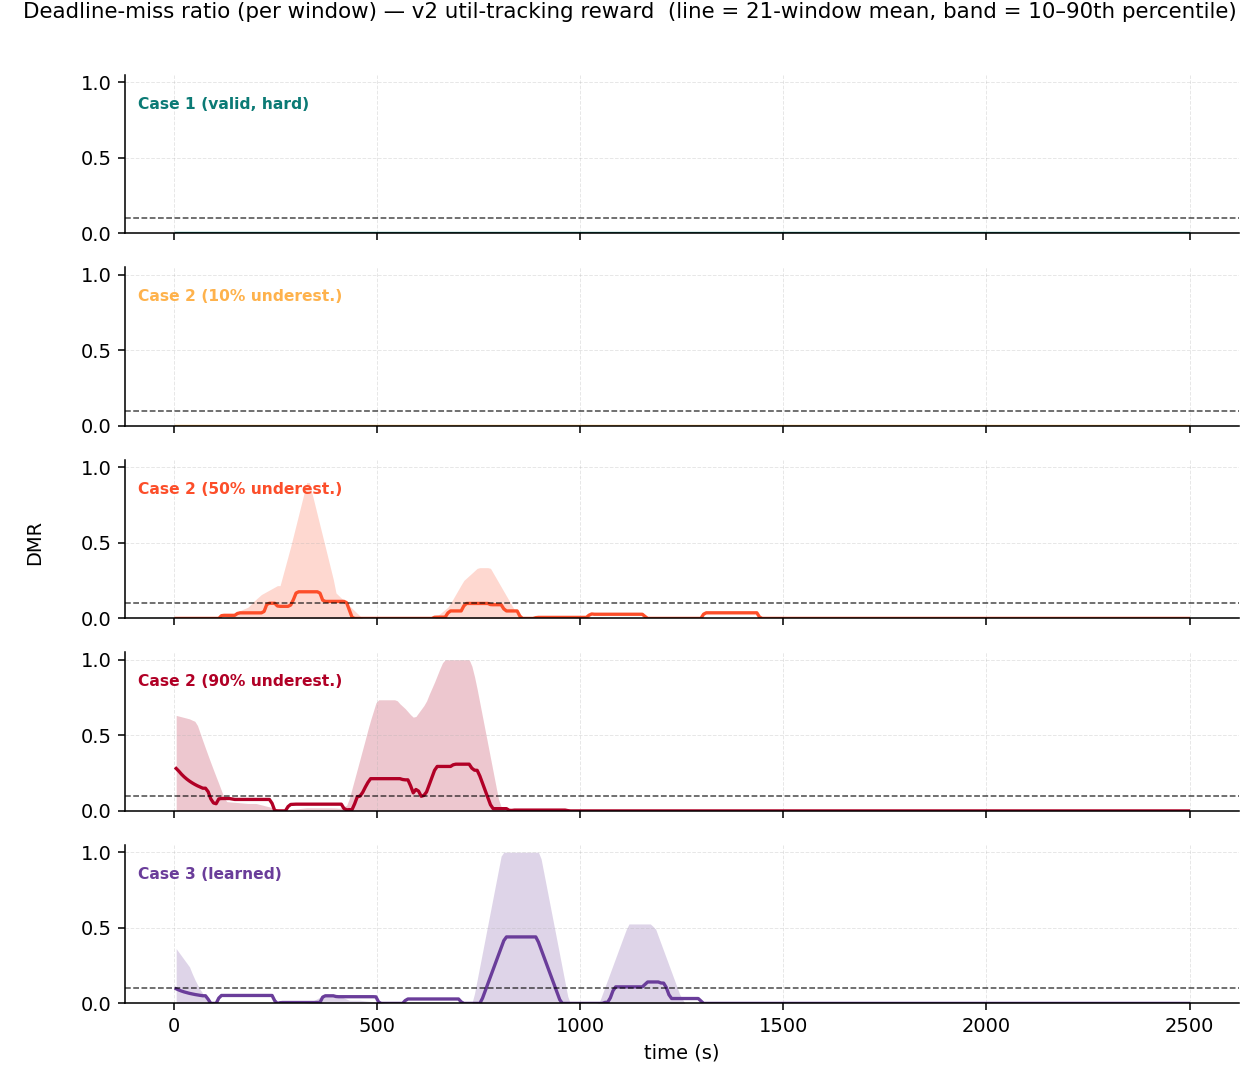
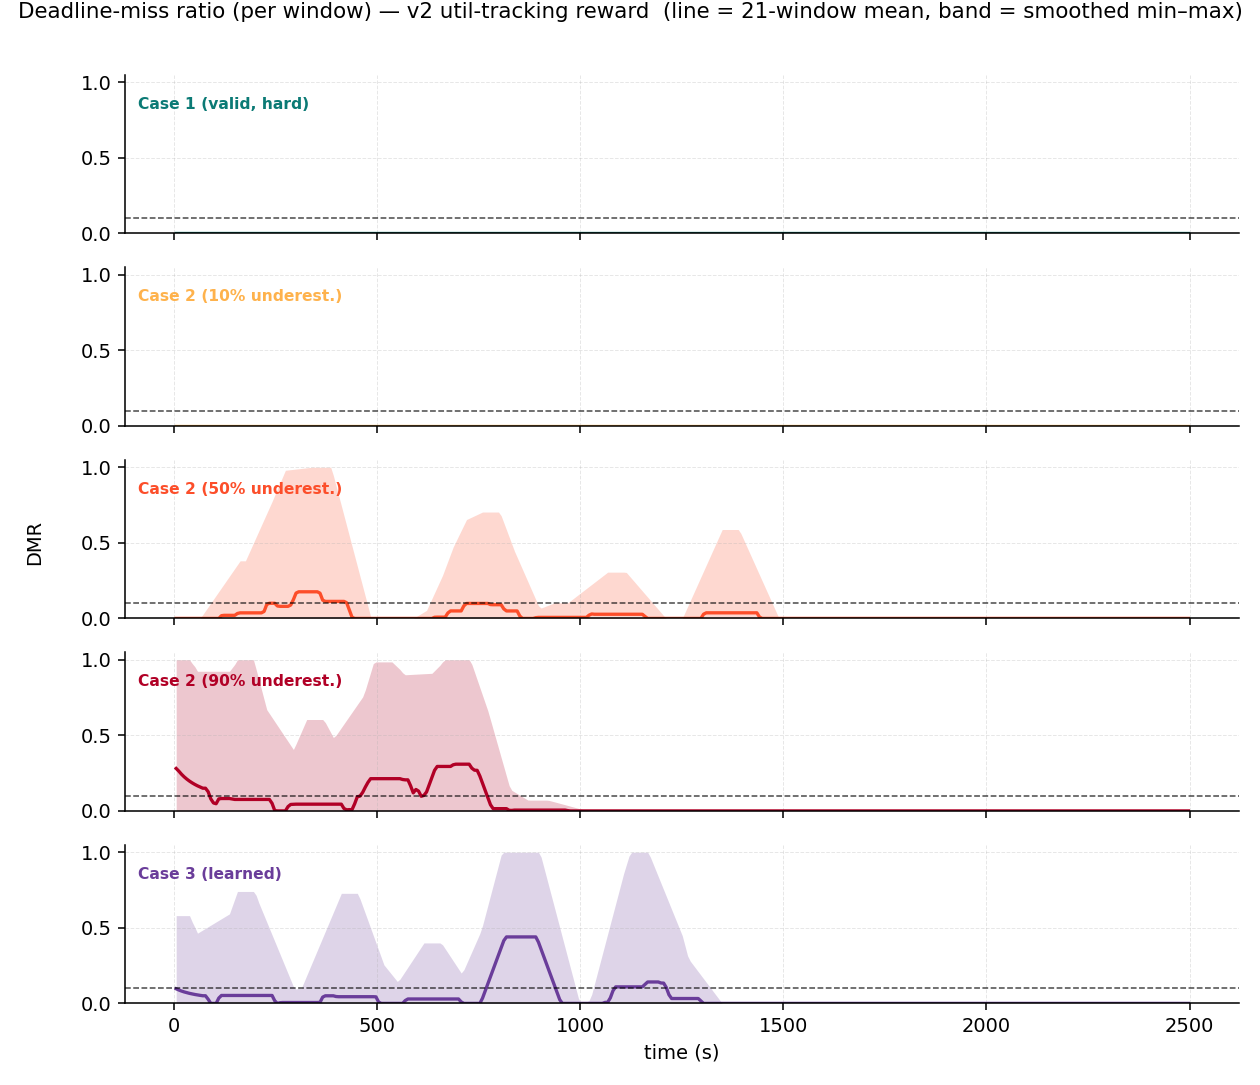
Revert "Figures: 10-90th percentile band instead of min-max"
This reverts commit 3320e1c3a8e6fc88b7d8934f55d456626584cb31.

diff --git a/scripts/fig_three_cases.py b/scripts/fig_three_cases.py
@@ -139,29 +139,17 @@ def _style(ax):
         ax.spines[sp].set_visible(False)
 
 
-def _pct(seg, p):
-    """Linear-interpolated p-th percentile of seg (p in 0..100)."""
-    s = sorted(seg)
-    if len(s) == 1:
-        return s[0]
-    k = (len(s) - 1) * p / 100.0
-    f = int(k); c = min(f + 1, len(s) - 1)
-    return s[f] + (s[c] - s[f]) * (k - f)
-
-
-def _rollband(y, w=21, env_smooth=11, plo=10, phi=90):
-    """Rolling mean + a SMOOTH percentile band (10th–90th by default). A min/max band is
-    dominated by rare spikes on skewed data (e.g. DMR: mostly 0 with occasional 1.0), which
-    balloons the upper edge and leaves the mean looking stranded at the bottom. The 10–90
-    percentile reflects where most windows actually sit, so the mean sits naturally inside the
-    band; edges are moving-average-smoothed for the shaded-band look. Lower edge clipped at 0."""
+def _rollband(y, w=21, env_smooth=15):
+    """Rolling mean + a SMOOTH min/max envelope band. The raw rolling min/max plateaus at
+    extremes (boxy on spiky 0/1 data), so the lo/hi envelopes are themselves smoothed with a
+    moving average — the band then reflects the min/max range but hugs the mean smoothly
+    (the shaded-confidence-band look). Lower edge clipped at 0."""
     n, half = len(y), w // 2
     m, lo, hi = [], [], []
     for i in range(n):
         a, b = max(0, i - half), min(n, i + half + 1)
         seg = y[a:b]
-        m.append(sum(seg) / len(seg))
-        lo.append(_pct(seg, plo)); hi.append(_pct(seg, phi))
+        m.append(sum(seg) / len(seg)); lo.append(min(seg)); hi.append(max(seg))
     lo = [max(0.0, v) for v in _smooth(lo, env_smooth)]
     hi = _smooth(hi, env_smooth)
     return m, lo, hi
@@ -193,7 +181,7 @@ def plot():
                 ax.spines[sp].set_visible(False)
         axes[-1].set_xlabel("time (s)")
         fig.supylabel(ylabel, fontsize=10)
-        fig.suptitle(f"{metric_title} — {rlabel}  (line = 21-window mean, band = 10–90th percentile)",
+        fig.suptitle(f"{metric_title} — {rlabel}  (line = 21-window mean, band = smoothed min–max)",
                      fontsize=11, y=0.998)
         fig.tight_layout(rect=[0.015, 0, 1, 0.99])
         p = fig_path(key)
